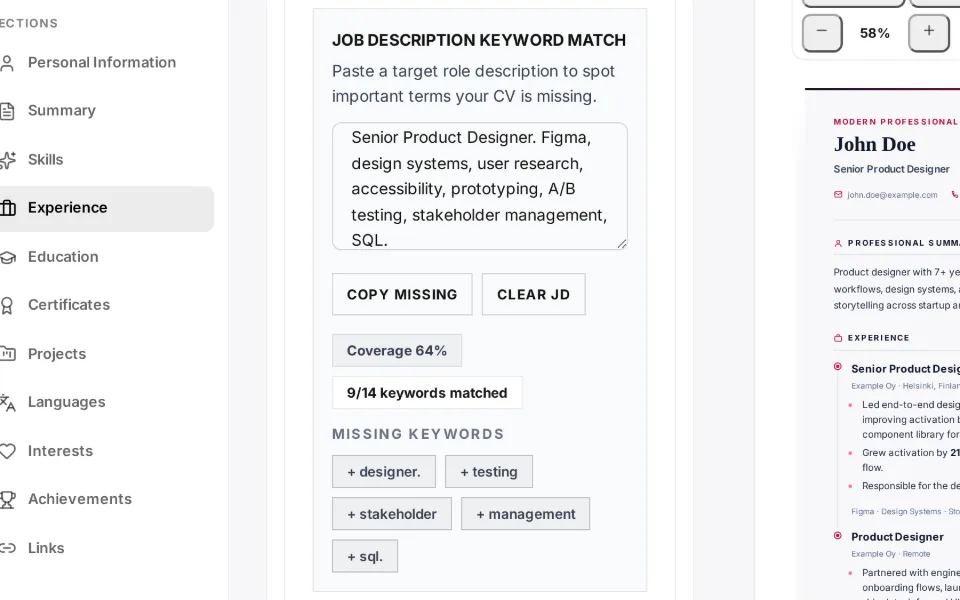
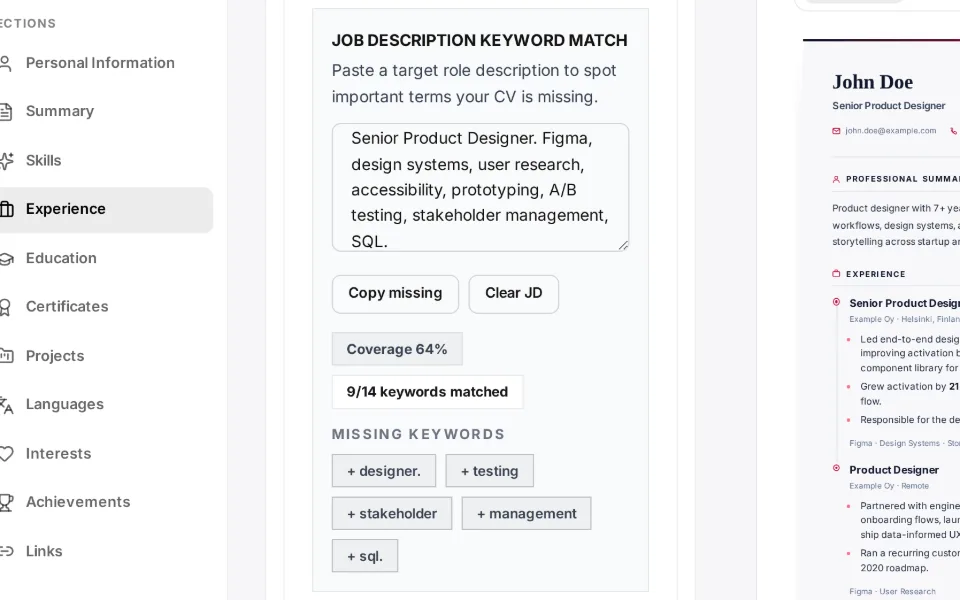
Leave the template-name label off the CV in the builder

diff --git a/e2e/direct-edit.spec.js b/e2e/direct-edit.spec.js
@@ -1464,25 +1464,39 @@ test.describe('Direct Edit builder', () => {
   }
 
   // Each template's kicker label ("<Template> Template") is preview-only
-  // (excluded from exports), but it is the first thing a user reads, and
+  // (excluded from exports), but it is the first thing a visitor reads, and
   // three sat under WCAG AA's 4.5:1 for text this small: Tech Executive
   // 4.13:1 on its navy masthead, Creative 3.35:1 (its default Coral accent
   // on the peach page) and Executive 4.37:1 on its rail. Portfolio Hybrid
   // passes (4.82:1 at its weakest swatch) but is not listed here:
   // minTextContrast reads a gradient's first stop as the background, and
   // Portfolio's header gradient starts with a translucent accent tint.
-  for (const { label, kicker } of [
-    { label: 'Tech Executive', kicker: '.tech-exec-showcase__kicker' },
-    { label: 'Creative', kicker: '.creative-showcase__kicker' },
-    { label: 'Executive', kicker: '.executive-showcase__kicker' },
+  // Measured on the template's own page: the builder's editing previews
+  // no longer show the label (1.6.84).
+  for (const { label, slug, kicker } of [
+    { label: 'Tech Executive', slug: 'tech-executive', kicker: '.tech-exec-showcase__kicker' },
+    { label: 'Creative', slug: 'creative', kicker: '.creative-showcase__kicker' },
+    { label: 'Executive', slug: 'executive', kicker: '.executive-showcase__kicker' },
   ]) {
     test(`${label}: the kicker label meets 4.5:1 contrast`, async ({ page }) => {
-      await pickTemplate(page, label)
-      const selector = `.preview-document--designer ${kicker}`
+      await page.goto(`/free-cv-templates/${slug}`)
+      const selector = `.template-page__preview ${kicker}`
       await expect(page.locator(selector).first()).toBeVisible()
       expect(await minTextContrast(page, selector)).toBeGreaterThanOrEqual(4.5)
     })
   }
+
+  // The label is left out of every export, so the builder leaves it out of
+  // the CV being edited too: the page on screen starts where the PDF does.
+  test('the builder does not show the template-name label on the CV, in either mode', async ({ page }) => {
+    const label = page.getByText('Minimalist Template', { exact: true })
+    await expect(page.locator('.preview-zoom-wrapper [data-cv-name]')).toBeVisible()
+    await expect(label.locator('visible=true')).toHaveCount(0)
+
+    await page.getByRole('tab', { name: 'Direct Edit' }).click()
+    await expect(page.locator('.direct-edit-preview [data-cv-name]').first()).toBeVisible()
+    await expect(label.locator('visible=true')).toHaveCount(0)
+  })
 
   // Executive's secondary text (--ex-ink-faint) read 4.37:1 on its rail:
   // the tagline and contact details, which are exported CV content, plus

diff --git a/src/styles/direct-edit.css b/src/styles/direct-edit.css
@@ -526,3 +526,13 @@
     scrollbar-color: var(--scrollbar-thumb) var(--scrollbar-track);
   }
 }
+
+/* The "<Template> Template" line above the name (1.6.84). Exports leave it
+   out ([data-export-ignore], app-shell.css), but in the builder it read as
+   part of the CV. Hidden in both modes' editing previews, so the page on
+   screen starts where the PDF does; the toolbar already names the
+   template. Gallery thumbnails and the template pages keep it. */
+.direct-edit-preview [data-export-ignore='true'][class*='kicker'],
+.preview-zoom-wrapper [data-export-ignore='true'][class*='kicker'] {
+  display: none;
+}

diff --git a/docs/audit-builder-1.6.74.md b/docs/audit-builder-1.6.74.md
@@ -53,19 +53,32 @@ real phone.
 
 ## Phase 3: visual consistency
 
-- [ ] **10. Two design languages.** The Direct Edit toolbar is soft and
+- [x] **10. Two design languages.** The Direct Edit toolbar is soft and
       rounded; Classic, the cover letter dialog and the landing page use
       square, uppercase buttons and oversized panel titles.
-- [ ] **11. Classic at 1024 px is cramped.** The toolbar wraps to two rows
+- [x] **11. Classic at 1024 px is cramped.** The toolbar wraps to two rows
       and the form column is roughly 240 px wide. The zoom bar is seven
       heavy grey buttons, with no selected state for Fit Width.
-- [ ] **12. Phone Classic buries the form.** The first field starts around
+- [x] **12. Phone Classic buries the form.** The first field starts around
       700 px down an 812 px screen, and "Show preview" duplicates the bottom
       "Preview" tab.
-- [ ] **13. Tiny touch targets.** "Remove skill" is 9×21 px; drag and remove
+- [x] **13. Tiny touch targets.** "Remove skill" is 9×21 px; drag and remove
       handles are 22×22 px.
-- [ ] **14. "Minimalist Template" label above the name.** It is not exported
+- [x] **14. "Minimalist Template" label above the name.** It is not exported
       (`data-export-ignore`), but it looks like CV content.
+
+Phase 3 notes (1.6.83-1.6.84):
+
+- Item 10 covers the builder only (Classic, its dialogs, the phone tab
+  bar). The landing page keeps its square, uppercase buttons. The heavy
+  grey buttons turned out to be a missing reset: buttons with no
+  background or border of their own kept the browser's.
+- Item 13 was mostly a measuring error: the skill chip's remove button
+  already had a 24px hit area and entry handles are 32px on touch
+  screens (both 1.6.66). Only Classic's tag remove button got a larger
+  hit area.
+- Item 14: the label is hidden in the builder's editing previews only.
+  Gallery thumbnails and template pages keep it.
 
 ## Phase 4: code health (no user-visible change)
 
